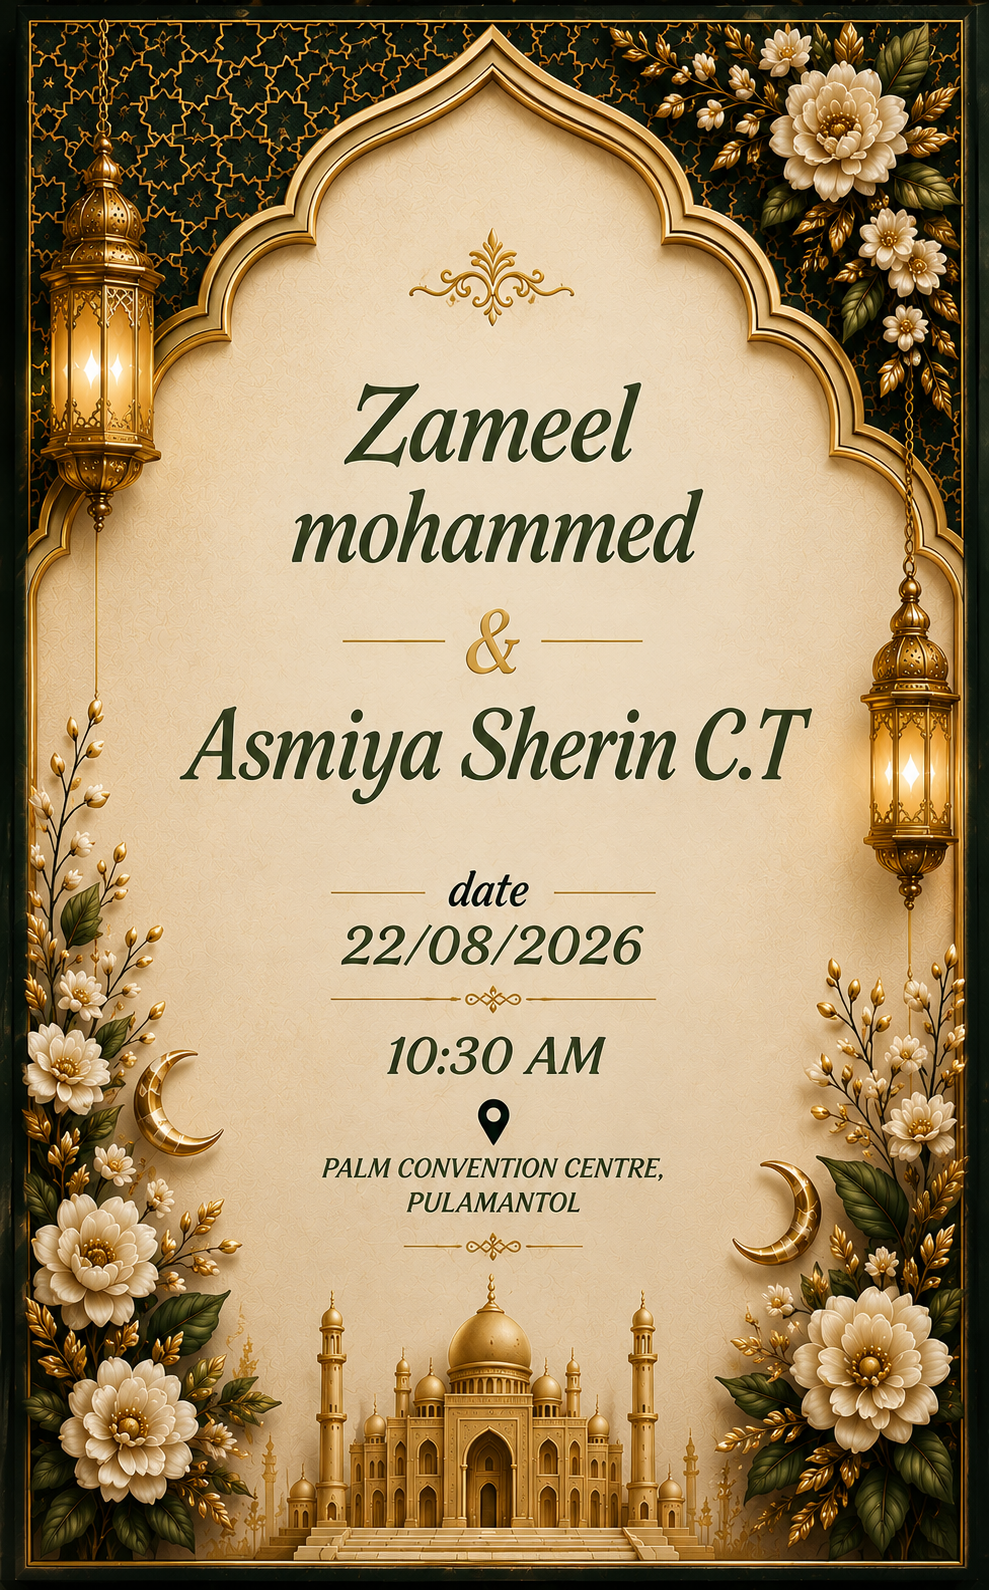
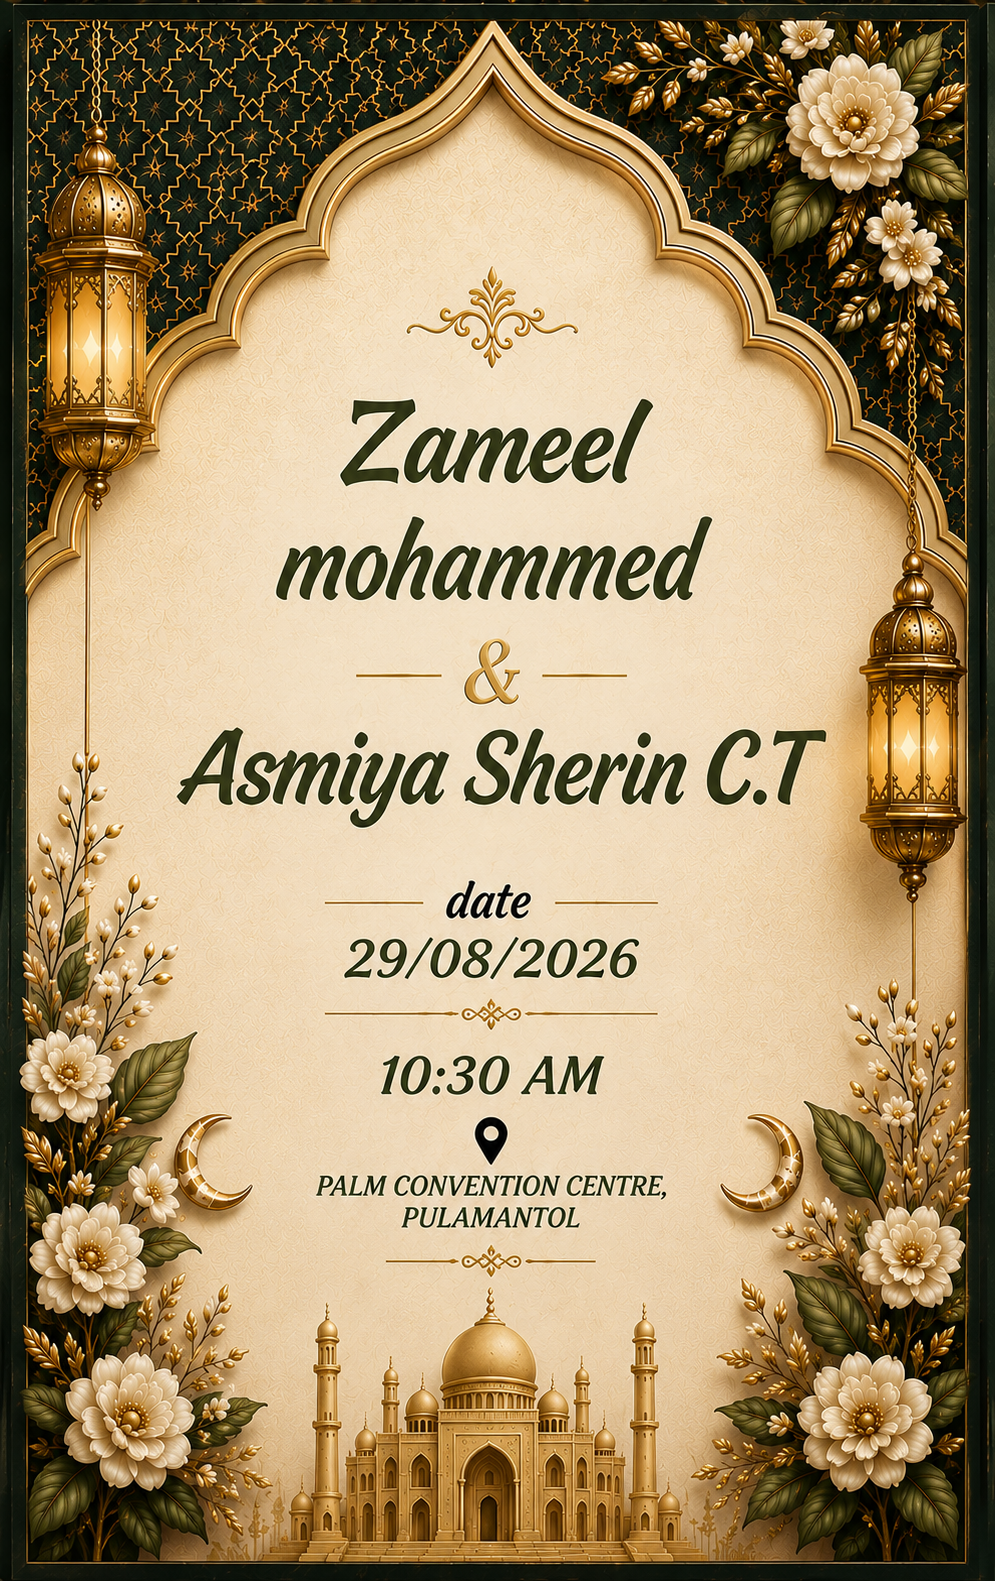
first commit

diff --git a/index.html b/index.html
@@ -175,7 +175,7 @@
         <span class="n">Asmiya Sherin C. T</span>
       </h1>
 
-      <p class="landing-date">22 · 08 · 2026</p>
+      <p class="landing-date">29 · 08 · 2026</p>
 
       <button id="openBtn" class="btn-open" type="button">
         <span class="btn-open__glow" aria-hidden="true"></span>
@@ -239,7 +239,7 @@
       </h1>
 
       <p class="hero-date">
-        <span class="hero-date__en">Saturday · 22 August 2026</span>
+        <span class="hero-date__en">Saturday · 29 August 2026</span>
         <span class="hero-date__ml">Insha Allah · 10.30 AM</span>
       </p>
     </div>
@@ -413,7 +413,7 @@
                 <use href="#i-lamp"></use>
               </svg></span>
             <div class="tl-body">
-              <p class="tl-date">Saturday, 22 August 2026 · Insha Allah</p>
+              <p class="tl-date">Saturday, 29 August 2026 · Insha Allah</p>
               <h3 class="tl-title">Nikah Ceremony</h3>
               <p class="tl-meta">AT 10.30 AM · Cherengathody (H), Ponnakkara</p>
               <p class="tl-text">Solemnised according to Islamic traditions and sacred Nikah rituals at 10.30 AM.</p>
@@ -425,7 +425,7 @@
                 <use href="#i-jasmine"></use>
               </svg></span>
             <div class="tl-body">
-              <p class="tl-date">Saturday, 22 August 2026</p>
+              <p class="tl-date">Saturday, 29 August 2026</p>
               <h3 class="tl-title">Wedding Reception / Feast</h3>
               <p class="tl-meta">Following Nikah · Cherengathody (H), Ponnakkara</p>
               <p class="tl-text">An afternoon of celebration, delicious feast and blessings with family and friends.</p>
@@ -566,7 +566,7 @@
           <svg class="ico temple-card__crest" aria-hidden="true"><use href="#i-kalasham"></use></svg>
           <p class="tc-eyebrow">Nikah Time</p>
           <h3 class="tc-day">Saturday</h3>
-          <p class="tc-date">22 August 2026</p>
+          <p class="tc-date">29 August 2026</p>
           <p class="tc-ml">Insha Allah</p>
 
           <div class="tc-rule" aria-hidden="true"></div>
@@ -619,7 +619,7 @@
           <div class="lux-card__col">
             <p class="lux-eyebrow">You are cordially invited</p>
             <h3 class="lux-day">Saturday</h3>
-            <p class="lux-date">22 August 2026</p>
+            <p class="lux-date">29 August 2026</p>
             <p class="lux-time">AT 10.30 AM</p>
           </div>
           <span class="lux-card__rule" aria-hidden="true"></span>
@@ -766,7 +766,7 @@
           <span class="divider-line"></span>
         </div>
         <p class="footer-names">Zameel Mohammed <span>&amp;</span> Asmiya Sherin C. T</p>
-        <p class="footer-date">22 August 2026 · Cherengathody (H), Ponnakkara</p>
+        <p class="footer-date">29 August 2026 · Cherengathody (H), Ponnakkara</p>
         <p class="footer-fine">Insha Allah</p>
       </div>
     </footer>

diff --git a/js/main.js b/js/main.js
@@ -643,7 +643,7 @@
      8 · Countdown  ·  22 Aug 2026, 10:30 IST
      --------------------------------------------------------- */
   (function countdown() {
-    var target = new Date('2026-08-22T10:30:00+05:30').getTime();
+    var target = new Date('2026-08-29T10:30:00+05:30').getTime();
     var d = document.getElementById('cdD'),
         h = document.getElementById('cdH'),
         m = document.getElementById('cdM'),
